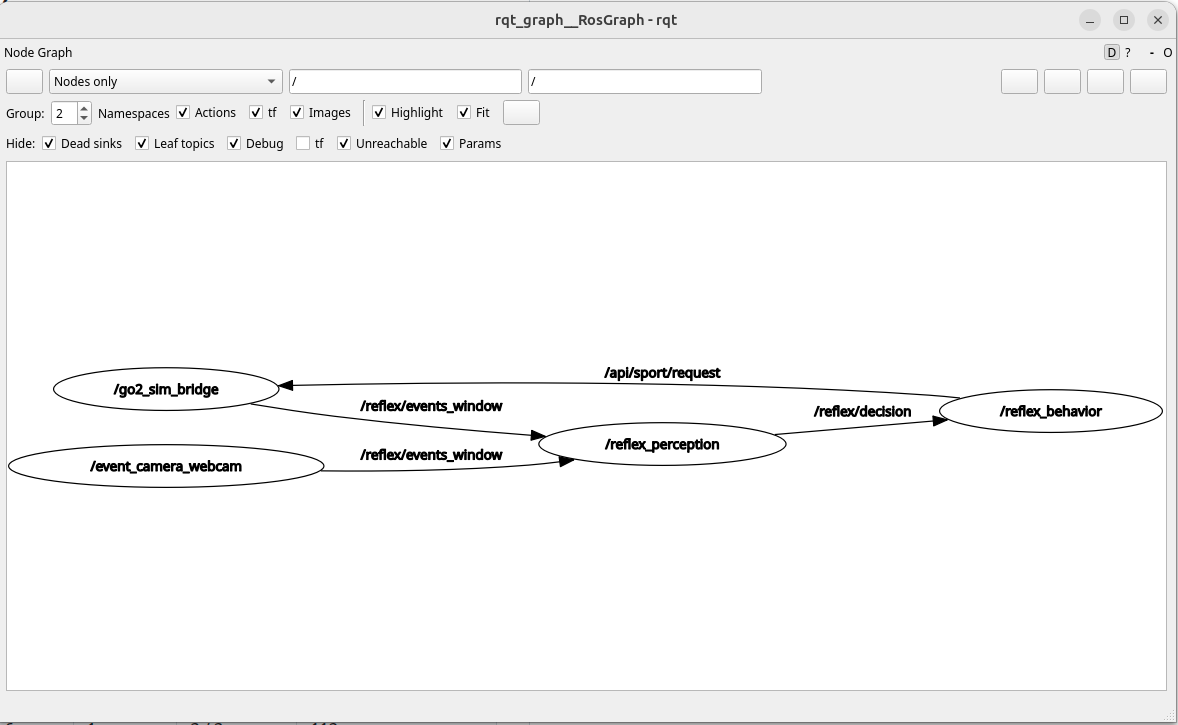
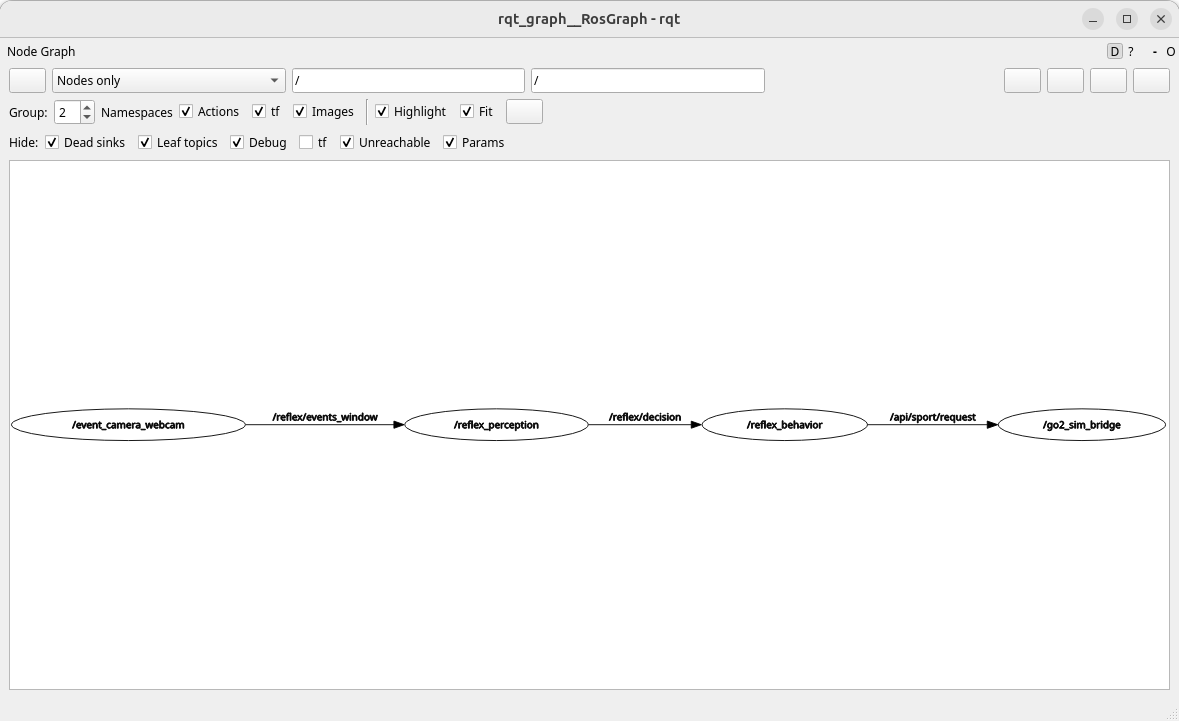
Docs: replace rqt_graph screenshots with the corrected ones

diff --git a/docs/inspecting-ros.md b/docs/inspecting-ros.md
@@ -44,10 +44,6 @@ Nodes and topics (`Nodes/Topics (all)` in the drop-down):
 
 ![rqt_graph, nodes and topics](img/rqt_graph_topics.png)
 
-These screenshots show an arrow from `go2_sim_bridge` to `/reflex/events_window`. It was
-a leftover: in robot-only mode the bridge created that publisher without ever using it.
-Fixed since; the only source of event windows here is `event_camera_webcam`.
-
 In the drop-down, `Nodes only` shows nodes joined by topic names; `Nodes/Topics (all)`
 draws topics as boxes. Untick `Debug` to see `/rosout` and `/parameter_events`. The
 refresh button redraws after nodes start or stop.
